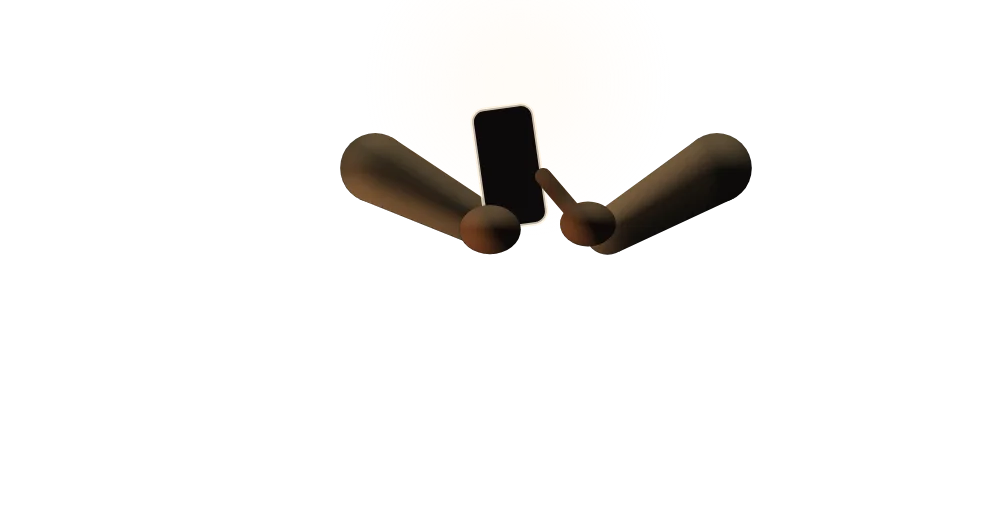
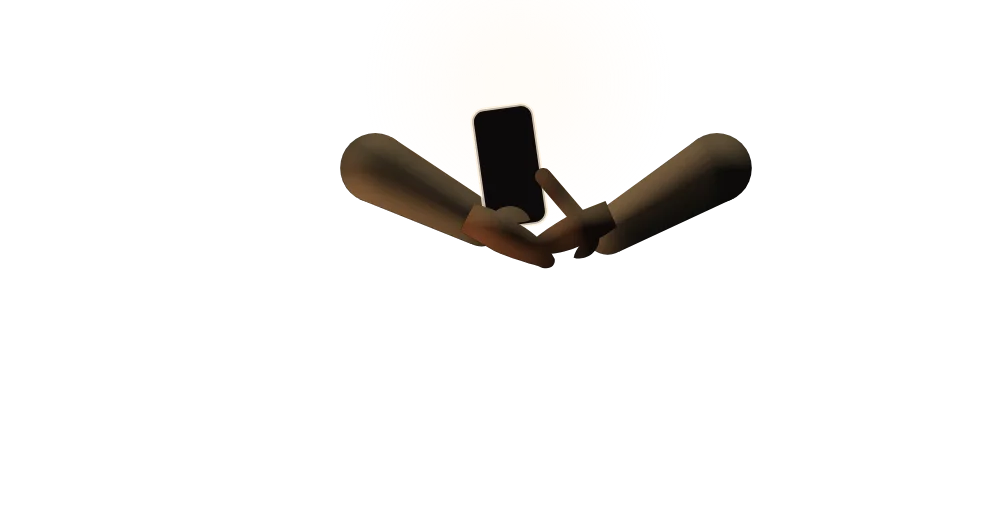
investigación: película del informe, afinado tras la revisión de la maestra
Manos con palma y pulgar en los planos abiertos; el mesero y los comensales se inclinan al hablar; el índice toca y se aparta
a un lado del teléfono; la plática de «Abierta» lleva dos líneas de subtítulo; el pago con la terminal se anuncia antes de
«Validar pago»; etiquetas de estado más grandes; el recuadro deja ver el pulgar y la palma del mesero.
verificar.mjs: 535 comprobaciones, 0 fallas.

Claude-Session: https://claude.ai/code/session_01T4zNEkueas1kpbmsMUXkGN

Changed region(s): [[0.4613, 0.391, 0.6151, 0.5113], [0.5536, 0.3609, 0.6151, 0.391]]

diff --git a/docs/informes/2026-11-14-planos-de-carta-v4/interactivo.html b/docs/informes/2026-11-14-planos-de-carta-v4/interactivo.html
@@ -8874,7 +8874,7 @@ const cineCss = `
 #cine .pip{position:absolute;left:1424px;top:118px;width:436px;height:800px;z-index:3;border-radius:44px;overflow:hidden;background:radial-gradient(ellipse 90% 70% at 50% 40%,#3a2420,#1a1210);box-shadow:0 0 0 2px rgba(253,195,77,.4),0 40px 80px rgba(8,4,3,.6);opacity:0;visibility:hidden}
 #cine .pipt{position:absolute;left:0;right:0;top:15px;text-align:center;font-size:18px;font-weight:700;letter-spacing:.12em;text-transform:uppercase;color:#fdd88a}
 /* sobre la escena */
-#cine .estado{position:absolute;z-index:4;padding:10px 20px;border-radius:999px;font-size:24px;font-weight:700;white-space:nowrap;opacity:0;visibility:hidden;box-shadow:0 10px 26px rgba(8,4,3,.4)}
+#cine .estado{position:absolute;z-index:4;padding:11px 24px;border-radius:999px;font-size:30px;font-weight:700;white-space:nowrap;opacity:0;visibility:hidden;box-shadow:0 10px 26px rgba(8,4,3,.4)}
 #cine .estado.lista{background:#66713d;color:#fff}
 #cine .estado.elige{background:rgba(254,249,241,.92);color:#5b4a3d}
 #cine .estado.vino{background:#fef9f1;color:#4f1728}
@@ -9179,8 +9179,8 @@ function cineHtml() {
   const rot = TOMAS.map((t, i) => t[4].length ? `<div class="r ${t[5]} r${i}">${t[4].map(l => `<span class="cln">${palabras(l)}</span>`).join("")}</div>` : "").join("");
   const etq = TOMAS.map((t, i) => t[3].length ? `<div class="etq e${i}">${t[3].map(([c, tx]) => `<span class="c${c}">${esc(tx)}</span>`).join("")}</div>` : "").join("");
   const globo = (k, quien, tx) => `<div class="globo g${k}"><b>${quien}</b>${tx}</div>`;
-  const sobre = `<span class="estado lista eA" style="left:384px;top:354px">✓ Lista</span><span class="estado elige eC" style="left:1384px;top:354px">Eligiendo…</span>` +
-    `<span class="estado vino eCom" style="left:112px;top:252px">✓ Comanda atendida</span><span class="estado vino ePago" style="left:112px;top:262px">✓ Pago validado</span><span class="estado lista eLibre" style="left:112px;top:262px">✓ Mesa 7, libre</span>` +
+  const sobre = `<span class="estado lista eA" style="left:372px;top:340px">✓ Lista</span><span class="estado elige eC" style="left:1340px;top:340px">Eligiendo…</span>` +
+    `<span class="estado vino eCom" style="left:112px;top:252px">✓ Comanda atendida</span><span class="estado vino ePago" style="left:112px;top:262px">✓ Pago validado</span><span class="estado elige ePaga" style="left:112px;top:150px">Pagan con la terminal del restaurante</span><span class="estado lista eLibre" style="left:112px;top:262px">✓ Mesa 7, libre</span>` +
     `<div class="resu rA" style="left:267px;top:346px"><b>Mi cuenta · Ana</b><span>Pescado a la talla<i>$245</i></span><span>Flan<i>$85</i></span><strong>Total<i>$330</i></strong></div>` +
     `<div class="resu rC" style="left:1134px;top:346px"><b>Mi cuenta · Carlos</b><span>Arrachera<i>$230</i></span><span>Agua de jamaica<i>$45</i></span><strong>Total<i>$275</i></strong></div>`;
   return `<div id="cine" aria-hidden="true"><div class="cf"><i class="l1"></i><i class="l2"></i></div>
@@ -9190,6 +9190,7 @@ ${globo(1, "Mesero", "Buenas noches. Aquí está la carta.")}${globo(2, "Mesero"
 ${globo(3, "Ana", "Ya pedí. ¿Tú qué vas a pedir?")}${globo(4, "Carlos", "Estoy viendo, todavía no sé.")}
 ${globo(5, "Mesero", "¿Qué tal? Esto es lo que van a pedir…")}${globo(6, "Ana", "Sí, todo bien.")}
 ${globo(7, "Mesero", "Gracias por venir. ¡Los esperamos pronto!")}
+${globo(8, "Ana", "Prueba el pescado, está increíble.")}${globo(9, "Carlos", "Y la arrachera. Hay que volver.")}
 <div class="reloj"><span class="x4">×4</span><span class="esfera"><i class="hh"></i><i class="mm"></i></span></div>
 ${rot}${etq}
 <div class="marca"><b>Carta</b><i></i><span>Tu menú, Tu Carta.</span></div></div>`;
@@ -9203,7 +9204,7 @@ function filmEscala() {
 
 /* posiciones de cada teléfono (su esquina superior izquierda en el cuadro de 1920×1080; el cuadro útil va de y=100 a y=980) */
 const PA = {x: 1050, y: 128, rotation: -2.5, scale: 0.9}, PB = {x: 1030, y: 122, rotation: -1, scale: 0.92}, PC = {x: 1090, y: 132, rotation: 1.5, scale: 0.9};
-const PF = {x: 430, y: 262, rotation: -1.5, scale: 0.72}, P2F = {x: 1200, y: 262, rotation: 1.5, scale: 0.72}, PM = {x: 1050, y: 128, rotation: -1.5, scale: 0.9}, PP = {x: 58, y: 54, rotation: 0, scale: 0.8};
+const PF = {x: 430, y: 262, rotation: -1.5, scale: 0.72}, P2F = {x: 1200, y: 262, rotation: 1.5, scale: 0.72}, PM = {x: 1050, y: 128, rotation: -1.5, scale: 0.9}, PP = {x: 104, y: 62, rotation: 0, scale: 0.76};
 /* donde espera el índice que toca (fuera del cuadro) y la cámara de la sala (escala y desplazamiento de las figuras; fs, fx, fy: el fondo) */
 const REP = {x: 600, y: 1090}, REPC = {x: -200, y: 1090};
 const C1 = {s: 1, x: 0, y: 0}, CA5 = {s: 0.86, x: 0, y: 151}, CSUC = {s: 1.25, x: -500, y: -340, fs: 1.14, fy: -30}, CBAR = {s: 1.5, x: -362, y: -170, fs: 1.3, fx: -250, fy: -40};
@@ -9226,8 +9227,8 @@ function filmLinea() {
   const gesto = (quien, t, n = 3, ang = 10) => tl.to(q(`.k-${quien}-brazo`), {rotation: quien === "ana" ? -ang : ang, duration: 0.32, yoyo: true, repeat: 2 * n - 1, ease: "sine.inOut"}, t);
   const toque = (A, x, y, t) => { tl.set(q(A + " .toque"), {left: x, top: y}, t - 0.01); tl.fromTo(q(A + " .toque"), {autoAlpha: 0.95, scale: 0.4}, {autoAlpha: 0, scale: 1.6, duration: 0.7, ease: "power2.out", immediateRender: false}, t); };
   const mueve = (A, x, y, t, d = 0.45) => tl.to(q(A + " .dedo"), {x, y, duration: d, ease: "power2.inOut"}, t);
-  /* tocar: el índice llega, baja, deja su marca en la pantalla y se levanta; s = -1 si la mano entra por la izquierda */
-  const toca = (A, x, y, t, s = 1) => { mueve(A, x + 16 * s, y + 46, t - 0.6, 0.45); tl.to(q(A + " .dedo"), {x, y, duration: 0.12, ease: "power1.in"}, t - 0.13); toque(A, x, y, t); tl.to(q(A + " .dedo"), {x: x + 14 * s, y: y + 40, duration: 0.22, ease: "power1.out"}, t + 0.1); };
+  /* tocar: el índice llega, baja, deja su marca y se aparta a un lado del teléfono para dejar ver la pantalla; s = -1 si la mano entra por la izquierda */
+  const toca = (A, x, y, t, s = 1) => { mueve(A, x + 16 * s, y + 46, t - 0.6, 0.45); tl.to(q(A + " .dedo"), {x, y, duration: 0.12, ease: "power1.in"}, t - 0.13); toque(A, x, y, t); tl.to(q(A + " .dedo"), {x: x + 14 * s, y: y + 40, duration: 0.2, ease: "power1.out"}, t + 0.1); tl.to(q(A + " .dedo"), {x: s > 0 ? 510 : -110, y: y + 80, duration: 0.5, ease: "power2.inOut"}, t + 0.3); };
   const retira = (A, t, R = REP, d = 0.6) => mueve(A, R.x, R.y, t, d);
   const globo = (k, t, fin) => { entra(".g" + k, t, 0.4, {y: 10}, {y: 0}); sale(".g" + k, fin, 0.25); };
   const pantalla = (sel, t, d = 0.4) => entra(sel, t, d, {scale: 0.97}, {scale: 1});
@@ -9238,7 +9239,9 @@ function filmLinea() {
   tl.set(q(".pfig"), {scale: 1.1, x: -96, y: -100}, 0);
   tl.set(q(".pfon"), {scale: 1.04, x: 0, y: 0, transformOrigin: "50% 50%"}, 0);
   tl.set(q(".cfon"), {scale: 1.06, x: 0, y: 0, transformOrigin: "50% 50%"}, 0);
-  tl.set(q(".gA, .gC, .gm"), {x: 0, y: 0}, 0);
+  tl.set(q(".gA, .gC, .gm"), {x: 0, y: 0, rotation: 0}, 0);
+  tl.set(q(".gA"), {transformOrigin: "432px 852px"}, 0); tl.set(q(".gC"), {transformOrigin: "1488px 852px"}, 0); tl.set(q(".gm"), {transformOrigin: "1128px 800px"}, 0);
+  const inclina = (g, ang, tt, d = 0.7) => tl.to(q(g), {rotation: ang, duration: d, ease: "sine.inOut"}, tt);
   Object.entries(GIRO).forEach(([n, [x, y]]) => tl.set(q(".k-" + n), {transformOrigin: orig(n, x, y), rotation: 0}, 0));
   tl.set(q(".k-qr-brillo, .k-resplandor, .k-llama"), {transformOrigin: "50% 50%"}, 0);
   tl.set(q(".k-llama"), {transformOrigin: "50% 90%"}, 0);
@@ -9277,10 +9280,10 @@ function filmLinea() {
   tl.fromTo(q(".gC"), {autoAlpha: 0, x: 90}, {autoAlpha: 1, x: 0, duration: 1.1, ease: "power3.out", immediateRender: false}, t + 0.9);
   tl.fromTo(q(".gm"), {autoAlpha: 0, x: 200}, {autoAlpha: 1, x: 0, duration: 1.2, ease: "power2.out", immediateRender: false}, t + 1.7);
   cam(t, C1, 7.5, "sine.inOut");
-  globo(1, t + 3.0, t + 4.9);
+  globo(1, t + 3.0, t + 4.9); inclina(".gm", -3, t + 2.8, 0.9);
   cabeza("ana", -5, t + 3.0); cabeza("carlos", 5, t + 3.2);
   globo(2, t + 5.1, t + 7.1);
-  pulsoQR(t + 5.4, 1);
+  pulsoQR(t + 5.4, 1); inclina(".gm", -1, t + 5.0, 0.8);
   cabeza("ana", 5, t + 5.6); cabeza("carlos", -5, t + 5.8);
   /* 3 · Ana levanta su teléfono; la cámara se va a su mano: escanea y entra a la carta (capturas reales) */
   t = T("escanea");
@@ -9294,9 +9297,9 @@ function filmLinea() {
   entra(".det", t + 3.0, 0.4, {y: 14}, {y: 0, ease: "back.out(2)"});
   toca(".agA", 200, 580, t + 3.8);
   entra(".cs.bien", t + 4.05, 0.35, {scale: 1.04}, {scale: 1});
-  toca(".agA", 200, 366, t + 5.5);
-  entra(".cs.menu", t + 5.8, 0.4, {scale: 1.04}, {scale: 1});
-  retira(".agA", t + 6.3);
+  toca(".agA", 200, 366, t + 5.6);
+  entra(".cs.menu", t + 5.9, 0.4, {scale: 1.04}, {scale: 1});
+  retira(".agA", t + 6.6);
   /* ===== acto 2: el teléfono en la mano de Ana, con la mesa desenfocada detrás ===== */
   /* 4 · la carta se adapta a lo que Ana no come */
   t = T("filtra");
@@ -9341,12 +9344,12 @@ function filmLinea() {
   tl.to(q(".vuela"), {autoAlpha: 0, duration: 0.15}, t + 1.95);
   tl.fromTo(q(".pPlato .mia .bd"), {autoAlpha: 0, scale: 0.3}, {autoAlpha: 1, scale: 1, duration: 0.4, ease: "back.out(3)", immediateRender: false}, t + 2.0);
   entra(".cs.pPlato .caviso", t + 2.2, 0.4, {y: 20}, {y: 0, ease: "back.out(1.6)"});
-  retira(".agA", t + 1.6);
+  retira(".agA", t + 2.0);
   /* ===== acto 3: la mesa pide junta ===== */
   /* 8 · de vuelta al plano abierto: Ana ya pidió y deja el teléfono; Carlos sigue eligiendo, con la cara alumbrada por la pantalla */
   t = T("juntos");
   tl.set(q(".pfig"), {scale: 1.5, x: -330, y: -430}, t); tl.set(q(".pfon"), {scale: 1.2, x: 60, y: 0}, t);
-  tl.set(q(".gm"), {autoAlpha: 0}, t);
+  tl.set(q(".gm"), {autoAlpha: 0, rotation: 0}, t);
   brazo("ana", "brazo", t, 0.01); brazo("carlos", "brazo-cel", t, 0.01);
   tl.set(q(".k-ana-cabeza"), {rotation: 0}, t); tl.set(q(".k-carlos-cabeza"), {rotation: -7}, t);
   corte(".cerca", ".sala", t, 0.7);
@@ -9354,7 +9357,7 @@ function filmLinea() {
   sale(".agA", t + 0.7, 0.01);
   entra(".eA", t + 2.0, 0.4, {scale: 0.6}, {scale: 1, ease: "back.out(2)"});
   entra(".eC", t + 2.2, 0.4, {scale: 0.6}, {scale: 1, ease: "back.out(2)"});
-  globo(3, t + 2.6, t + 4.5); gesto("ana", t + 2.6, 2, 8); cabeza("ana", 4, t + 2.6);
+  globo(3, t + 2.6, t + 4.5); gesto("ana", t + 2.6, 2, 8); cabeza("ana", 4, t + 2.6); inclina(".gA", 2.5, t + 2.5); inclina(".gA", 0, t + 4.4);
   globo(4, t + 4.7, t + 6.5); cabeza("carlos", 2, t + 4.7); cabeza("carlos", -7, t + 5.6);
   sale(".eA, .eC", t + 6.5, 0.3);
   /* 9 · Ana aún es nueva en Carta; elige una arrachera y se la manda a Carlos (visión); cada teléfono, en la mano de su dueño */
@@ -9371,7 +9374,7 @@ function filmLinea() {
   toca(".agA", 200, 726, t + 3.3);
   entra(".cs.pRes .toast", t + 3.45, 0.35, {y: -14}, {y: 0});
   entra(".reco2", t + 3.95, 0.45, {y: 30, scale: 0.92}, {y: 0, scale: 1, ease: "back.out(1.6)"});
-  retira(".agA", t + 3.9);
+  retira(".agA", t + 4.3);
   toca(".agC", 200, 498, t + 5.4, -1);
   sale(".reco2", t + 5.6, 0.3);
   entra(".cs.pCarlos .toast", t + 5.6, 0.35, {y: -14}, {y: 0});
@@ -9381,7 +9384,7 @@ function filmLinea() {
   toca(".agC", 200, 800, t + 0.9, -1);
   pantalla(".cs.pListosB", t + 1.05, 0.4);
   pantalla(".cs.pListosA", t + 1.35, 0.4);
-  retira(".agC", t + 1.4, REPC);
+  retira(".agC", t + 1.9, REPC);
   /* ===== acto 4: el mesero ===== */
   /* 11 · el mesero, en otra parte del salón: le vibra el bolsillo (aviso con el teléfono bloqueado: visión), mira y dice «Ya voy» */
   t = T("avisa");
@@ -9403,7 +9406,7 @@ function filmLinea() {
   tl.fromTo(q(".agM"), {y: PM.y + 200}, {y: PM.y, duration: 1.0, ease: "power3.out", immediateRender: false}, t + 2.7);
   toca(".agM", 200, 425, t + 4.7);
   pantalla(".cs.pOrden", t + 4.9, 0.4);
-  retira(".agM", t + 5.3);
+  retira(".agM", t + 5.6, REP, 0.5);
   /* de vuelta a la mesa: el mesero llega con su teléfono en la mano */
   tl.set(q(".pfig"), {scale: 1.04, x: -38, y: -30}, t + 6.2); tl.set(q(".pfon"), {scale: 1.04, x: 0, y: 0}, t + 6.2);
   tl.set(q(".k-ana-silla, .k-carlos-silla, .gA, .gC, .k-mesa, .k-montaje, .k-copa-a, .k-copa-c, .k-acrilico, .k-vela, .k-llama, .k-resplandor"), {autoAlpha: 1}, t + 6.2);
@@ -9415,7 +9418,7 @@ function filmLinea() {
   cam(t + 6.3, C1, 3.5, "sine.out");
   /* 12 · repasa la orden con ellos y la manda */
   t = T("llega");
-  globo(5, t + 0.4, t + 2.8); cabeza("mesero", -5, t + 0.4);
+  globo(5, t + 0.4, t + 2.8); cabeza("mesero", -5, t + 0.4); inclina(".gm", -2.5, t + 0.3, 0.9); inclina(".gm", 0, t + 5.4, 0.8);
   globo(6, t + 3.0, t + 4.5); cabeza("ana", -6, t + 3.0, 0.3); cabeza("ana", 2, t + 3.5, 0.3); cabeza("ana", -4, t + 3.9, 0.3);
   entra(".eCom", t + 4.7, 0.4, {scale: 0.6}, {scale: 1, ease: "back.out(2)"});
   /* ===== acto 5: el ciclo de la mesa, a cámara rápida; arriba a la derecha, el teléfono del mesero ===== */
@@ -9442,6 +9445,8 @@ function filmLinea() {
   /* 13 · abierta: llegan los platillos; comen y platican por turnos */
   entra(".k-platillo-a, .k-platillo-c", t + 1.5, 0.6, {y: -18}, {y: 0, stagger: 0.25});
   cabeza("ana", 5, t + 1.6); cabeza("carlos", -5, t + 1.8);
+  globo(8, t + 2.3, t + 4.1); inclina(".gA", 3, t + 2.3); inclina(".gA", 0, t + 4.0);
+  globo(9, t + 4.3, t + 6.2); inclina(".gC", -3, t + 4.3); inclina(".gC", 0, t + 6.0, 0.5);
   gesto("ana", t + 2.4, 3, 12); cabeza("ana", -4, t + 2.4, 0.4); cabeza("ana", 2, t + 3.0, 0.4); cabeza("ana", -3, t + 3.6, 0.4);
   cabeza("carlos", 4, t + 2.6, 0.4); cabeza("carlos", -2, t + 3.3, 0.4);
   brazo("carlos", "brazo-copa", t + 3.9); pon(".k-copa-c", t + 3.95, false);
@@ -9467,6 +9472,8 @@ function filmLinea() {
   brazo("mesero", "brazos-terminal", t, 0.01); tl.set(q(".k-mesero-cabeza"), {scaleX: -1, rotation: 0}, t);
   tl.fromTo(q(".gm"), {x: 220, autoAlpha: 0}, {x: 0, autoAlpha: 1, duration: 1.0, ease: "power2.out", immediateRender: false}, t + 0.2);
   tl.to(q(".k-mesero-cabeza"), {scaleX: 1, duration: 0.3, ease: "power1.inOut"}, t + 1.0);
+  inclina(".gm", 3, t + 1.0, 0.8); inclina(".gm", 0, t + 2.8, 0.6);
+  entra(".ePaga", t + 1.3, 0.4, {scale: 0.6}, {scale: 1, ease: "back.out(2)"}); sale(".ePaga", t + 3.2, 0.3);
   tl.to(q(".k-carlos-brazo"), {rotation: 22, duration: 0.45, ease: "power2.out"}, t + 1.5);
   tl.fromTo(q(".buzz"), {autoAlpha: 0, scale: 0.5, x: 180, y: 0}, {autoAlpha: 1, scale: 1.1, duration: 0.3, yoyo: true, repeat: 1, ease: "sine.inOut", immediateRender: false}, t + 2.0);
   tl.to(q(".k-carlos-brazo"), {rotation: 0, duration: 0.45, ease: "power2.inOut"}, t + 2.6);

diff --git a/docs/informes/2026-11-14-planos-de-carta-v4/js/e2_film.js b/docs/informes/2026-11-14-planos-de-carta-v4/js/e2_film.js
@@ -163,7 +163,7 @@ const cineCss = `
 #cine .pip{position:absolute;left:1424px;top:118px;width:436px;height:800px;z-index:3;border-radius:44px;overflow:hidden;background:radial-gradient(ellipse 90% 70% at 50% 40%,#3a2420,#1a1210);box-shadow:0 0 0 2px rgba(253,195,77,.4),0 40px 80px rgba(8,4,3,.6);opacity:0;visibility:hidden}
 #cine .pipt{position:absolute;left:0;right:0;top:15px;text-align:center;font-size:18px;font-weight:700;letter-spacing:.12em;text-transform:uppercase;color:#fdd88a}
 /* sobre la escena */
-#cine .estado{position:absolute;z-index:4;padding:10px 20px;border-radius:999px;font-size:24px;font-weight:700;white-space:nowrap;opacity:0;visibility:hidden;box-shadow:0 10px 26px rgba(8,4,3,.4)}
+#cine .estado{position:absolute;z-index:4;padding:11px 24px;border-radius:999px;font-size:30px;font-weight:700;white-space:nowrap;opacity:0;visibility:hidden;box-shadow:0 10px 26px rgba(8,4,3,.4)}
 #cine .estado.lista{background:#66713d;color:#fff}
 #cine .estado.elige{background:rgba(254,249,241,.92);color:#5b4a3d}
 #cine .estado.vino{background:#fef9f1;color:#4f1728}
@@ -468,8 +468,8 @@ function cineHtml() {
   const rot = TOMAS.map((t, i) => t[4].length ? `<div class="r ${t[5]} r${i}">${t[4].map(l => `<span class="cln">${palabras(l)}</span>`).join("")}</div>` : "").join("");
   const etq = TOMAS.map((t, i) => t[3].length ? `<div class="etq e${i}">${t[3].map(([c, tx]) => `<span class="c${c}">${esc(tx)}</span>`).join("")}</div>` : "").join("");
   const globo = (k, quien, tx) => `<div class="globo g${k}"><b>${quien}</b>${tx}</div>`;
-  const sobre = `<span class="estado lista eA" style="left:384px;top:354px">✓ Lista</span><span class="estado elige eC" style="left:1384px;top:354px">Eligiendo…</span>` +
-    `<span class="estado vino eCom" style="left:112px;top:252px">✓ Comanda atendida</span><span class="estado vino ePago" style="left:112px;top:262px">✓ Pago validado</span><span class="estado lista eLibre" style="left:112px;top:262px">✓ Mesa 7, libre</span>` +
+  const sobre = `<span class="estado lista eA" style="left:372px;top:340px">✓ Lista</span><span class="estado elige eC" style="left:1340px;top:340px">Eligiendo…</span>` +
+    `<span class="estado vino eCom" style="left:112px;top:252px">✓ Comanda atendida</span><span class="estado vino ePago" style="left:112px;top:262px">✓ Pago validado</span><span class="estado elige ePaga" style="left:112px;top:150px">Pagan con la terminal del restaurante</span><span class="estado lista eLibre" style="left:112px;top:262px">✓ Mesa 7, libre</span>` +
     `<div class="resu rA" style="left:267px;top:346px"><b>Mi cuenta · Ana</b><span>Pescado a la talla<i>$245</i></span><span>Flan<i>$85</i></span><strong>Total<i>$330</i></strong></div>` +
     `<div class="resu rC" style="left:1134px;top:346px"><b>Mi cuenta · Carlos</b><span>Arrachera<i>$230</i></span><span>Agua de jamaica<i>$45</i></span><strong>Total<i>$275</i></strong></div>`;
   return `<div id="cine" aria-hidden="true"><div class="cf"><i class="l1"></i><i class="l2"></i></div>
@@ -479,6 +479,7 @@ ${globo(1, "Mesero", "Buenas noches. Aquí está la carta.")}${globo(2, "Mesero"
 ${globo(3, "Ana", "Ya pedí. ¿Tú qué vas a pedir?")}${globo(4, "Carlos", "Estoy viendo, todavía no sé.")}
 ${globo(5, "Mesero", "¿Qué tal? Esto es lo que van a pedir…")}${globo(6, "Ana", "Sí, todo bien.")}
 ${globo(7, "Mesero", "Gracias por venir. ¡Los esperamos pronto!")}
+${globo(8, "Ana", "Prueba el pescado, está increíble.")}${globo(9, "Carlos", "Y la arrachera. Hay que volver.")}
 <div class="reloj"><span class="x4">×4</span><span class="esfera"><i class="hh"></i><i class="mm"></i></span></div>
 ${rot}${etq}
 <div class="marca"><b>Carta</b><i></i><span>Tu menú, Tu Carta.</span></div></div>`;
@@ -492,7 +493,7 @@ function filmEscala() {
 
 /* posiciones de cada teléfono (su esquina superior izquierda en el cuadro de 1920×1080; el cuadro útil va de y=100 a y=980) */
 const PA = {x: 1050, y: 128, rotation: -2.5, scale: 0.9}, PB = {x: 1030, y: 122, rotation: -1, scale: 0.92}, PC = {x: 1090, y: 132, rotation: 1.5, scale: 0.9};
-const PF = {x: 430, y: 262, rotation: -1.5, scale: 0.72}, P2F = {x: 1200, y: 262, rotation: 1.5, scale: 0.72}, PM = {x: 1050, y: 128, rotation: -1.5, scale: 0.9}, PP = {x: 58, y: 54, rotation: 0, scale: 0.8};
+const PF = {x: 430, y: 262, rotation: -1.5, scale: 0.72}, P2F = {x: 1200, y: 262, rotation: 1.5, scale: 0.72}, PM = {x: 1050, y: 128, rotation: -1.5, scale: 0.9}, PP = {x: 104, y: 62, rotation: 0, scale: 0.76};
 /* donde espera el índice que toca (fuera del cuadro) y la cámara de la sala (escala y desplazamiento de las figuras; fs, fx, fy: el fondo) */
 const REP = {x: 600, y: 1090}, REPC = {x: -200, y: 1090};
 const C1 = {s: 1, x: 0, y: 0}, CA5 = {s: 0.86, x: 0, y: 151}, CSUC = {s: 1.25, x: -500, y: -340, fs: 1.14, fy: -30}, CBAR = {s: 1.5, x: -362, y: -170, fs: 1.3, fx: -250, fy: -40};
@@ -515,8 +516,8 @@ function filmLinea() {
   const gesto = (quien, t, n = 3, ang = 10) => tl.to(q(`.k-${quien}-brazo`), {rotation: quien === "ana" ? -ang : ang, duration: 0.32, yoyo: true, repeat: 2 * n - 1, ease: "sine.inOut"}, t);
   const toque = (A, x, y, t) => { tl.set(q(A + " .toque"), {left: x, top: y}, t - 0.01); tl.fromTo(q(A + " .toque"), {autoAlpha: 0.95, scale: 0.4}, {autoAlpha: 0, scale: 1.6, duration: 0.7, ease: "power2.out", immediateRender: false}, t); };
   const mueve = (A, x, y, t, d = 0.45) => tl.to(q(A + " .dedo"), {x, y, duration: d, ease: "power2.inOut"}, t);
-  /* tocar: el índice llega, baja, deja su marca en la pantalla y se levanta; s = -1 si la mano entra por la izquierda */
-  const toca = (A, x, y, t, s = 1) => { mueve(A, x + 16 * s, y + 46, t - 0.6, 0.45); tl.to(q(A + " .dedo"), {x, y, duration: 0.12, ease: "power1.in"}, t - 0.13); toque(A, x, y, t); tl.to(q(A + " .dedo"), {x: x + 14 * s, y: y + 40, duration: 0.22, ease: "power1.out"}, t + 0.1); };
+  /* tocar: el índice llega, baja, deja su marca y se aparta a un lado del teléfono para dejar ver la pantalla; s = -1 si la mano entra por la izquierda */
+  const toca = (A, x, y, t, s = 1) => { mueve(A, x + 16 * s, y + 46, t - 0.6, 0.45); tl.to(q(A + " .dedo"), {x, y, duration: 0.12, ease: "power1.in"}, t - 0.13); toque(A, x, y, t); tl.to(q(A + " .dedo"), {x: x + 14 * s, y: y + 40, duration: 0.2, ease: "power1.out"}, t + 0.1); tl.to(q(A + " .dedo"), {x: s > 0 ? 510 : -110, y: y + 80, duration: 0.5, ease: "power2.inOut"}, t + 0.3); };
   const retira = (A, t, R = REP, d = 0.6) => mueve(A, R.x, R.y, t, d);
   const globo = (k, t, fin) => { entra(".g" + k, t, 0.4, {y: 10}, {y: 0}); sale(".g" + k, fin, 0.25); };
   const pantalla = (sel, t, d = 0.4) => entra(sel, t, d, {scale: 0.97}, {scale: 1});
@@ -527,7 +528,9 @@ function filmLinea() {
   tl.set(q(".pfig"), {scale: 1.1, x: -96, y: -100}, 0);
   tl.set(q(".pfon"), {scale: 1.04, x: 0, y: 0, transformOrigin: "50% 50%"}, 0);
   tl.set(q(".cfon"), {scale: 1.06, x: 0, y: 0, transformOrigin: "50% 50%"}, 0);
-  tl.set(q(".gA, .gC, .gm"), {x: 0, y: 0}, 0);
+  tl.set(q(".gA, .gC, .gm"), {x: 0, y: 0, rotation: 0}, 0);
+  tl.set(q(".gA"), {transformOrigin: "432px 852px"}, 0); tl.set(q(".gC"), {transformOrigin: "1488px 852px"}, 0); tl.set(q(".gm"), {transformOrigin: "1128px 800px"}, 0);
+  const inclina = (g, ang, tt, d = 0.7) => tl.to(q(g), {rotation: ang, duration: d, ease: "sine.inOut"}, tt);
   Object.entries(GIRO).forEach(([n, [x, y]]) => tl.set(q(".k-" + n), {transformOrigin: orig(n, x, y), rotation: 0}, 0));
   tl.set(q(".k-qr-brillo, .k-resplandor, .k-llama"), {transformOrigin: "50% 50%"}, 0);
   tl.set(q(".k-llama"), {transformOrigin: "50% 90%"}, 0);
@@ -566,10 +569,10 @@ function filmLinea() {
   tl.fromTo(q(".gC"), {autoAlpha: 0, x: 90}, {autoAlpha: 1, x: 0, duration: 1.1, ease: "power3.out", immediateRender: false}, t + 0.9);
   tl.fromTo(q(".gm"), {autoAlpha: 0, x: 200}, {autoAlpha: 1, x: 0, duration: 1.2, ease: "power2.out", immediateRender: false}, t + 1.7);
   cam(t, C1, 7.5, "sine.inOut");
-  globo(1, t + 3.0, t + 4.9);
+  globo(1, t + 3.0, t + 4.9); inclina(".gm", -3, t + 2.8, 0.9);
   cabeza("ana", -5, t + 3.0); cabeza("carlos", 5, t + 3.2);
   globo(2, t + 5.1, t + 7.1);
-  pulsoQR(t + 5.4, 1);
+  pulsoQR(t + 5.4, 1); inclina(".gm", -1, t + 5.0, 0.8);
   cabeza("ana", 5, t + 5.6); cabeza("carlos", -5, t + 5.8);
   /* 3 · Ana levanta su teléfono; la cámara se va a su mano: escanea y entra a la carta (capturas reales) */
   t = T("escanea");
@@ -583,9 +586,9 @@ function filmLinea() {
   entra(".det", t + 3.0, 0.4, {y: 14}, {y: 0, ease: "back.out(2)"});
   toca(".agA", 200, 580, t + 3.8);
   entra(".cs.bien", t + 4.05, 0.35, {scale: 1.04}, {scale: 1});
-  toca(".agA", 200, 366, t + 5.5);
-  entra(".cs.menu", t + 5.8, 0.4, {scale: 1.04}, {scale: 1});
-  retira(".agA", t + 6.3);
+  toca(".agA", 200, 366, t + 5.6);
+  entra(".cs.menu", t + 5.9, 0.4, {scale: 1.04}, {scale: 1});
+  retira(".agA", t + 6.6);
   /* ===== acto 2: el teléfono en la mano de Ana, con la mesa desenfocada detrás ===== */
   /* 4 · la carta se adapta a lo que Ana no come */
   t = T("filtra");
@@ -630,12 +633,12 @@ function filmLinea() {
   tl.to(q(".vuela"), {autoAlpha: 0, duration: 0.15}, t + 1.95);
   tl.fromTo(q(".pPlato .mia .bd"), {autoAlpha: 0, scale: 0.3}, {autoAlpha: 1, scale: 1, duration: 0.4, ease: "back.out(3)", immediateRender: false}, t + 2.0);
   entra(".cs.pPlato .caviso", t + 2.2, 0.4, {y: 20}, {y: 0, ease: "back.out(1.6)"});
-  retira(".agA", t + 1.6);
+  retira(".agA", t + 2.0);
   /* ===== acto 3: la mesa pide junta ===== */
   /* 8 · de vuelta al plano abierto: Ana ya pidió y deja el teléfono; Carlos sigue eligiendo, con la cara alumbrada por la pantalla */
   t = T("juntos");
   tl.set(q(".pfig"), {scale: 1.5, x: -330, y: -430}, t); tl.set(q(".pfon"), {scale: 1.2, x: 60, y: 0}, t);
-  tl.set(q(".gm"), {autoAlpha: 0}, t);
+  tl.set(q(".gm"), {autoAlpha: 0, rotation: 0}, t);
   brazo("ana", "brazo", t, 0.01); brazo("carlos", "brazo-cel", t, 0.01);
   tl.set(q(".k-ana-cabeza"), {rotation: 0}, t); tl.set(q(".k-carlos-cabeza"), {rotation: -7}, t);
   corte(".cerca", ".sala", t, 0.7);
@@ -643,7 +646,7 @@ function filmLinea() {
   sale(".agA", t + 0.7, 0.01);
   entra(".eA", t + 2.0, 0.4, {scale: 0.6}, {scale: 1, ease: "back.out(2)"});
   entra(".eC", t + 2.2, 0.4, {scale: 0.6}, {scale: 1, ease: "back.out(2)"});
-  globo(3, t + 2.6, t + 4.5); gesto("ana", t + 2.6, 2, 8); cabeza("ana", 4, t + 2.6);
+  globo(3, t + 2.6, t + 4.5); gesto("ana", t + 2.6, 2, 8); cabeza("ana", 4, t + 2.6); inclina(".gA", 2.5, t + 2.5); inclina(".gA", 0, t + 4.4);
   globo(4, t + 4.7, t + 6.5); cabeza("carlos", 2, t + 4.7); cabeza("carlos", -7, t + 5.6);
   sale(".eA, .eC", t + 6.5, 0.3);
   /* 9 · Ana aún es nueva en Carta; elige una arrachera y se la manda a Carlos (visión); cada teléfono, en la mano de su dueño */
@@ -660,7 +663,7 @@ function filmLinea() {
   toca(".agA", 200, 726, t + 3.3);
   entra(".cs.pRes .toast", t + 3.45, 0.35, {y: -14}, {y: 0});
   entra(".reco2", t + 3.95, 0.45, {y: 30, scale: 0.92}, {y: 0, scale: 1, ease: "back.out(1.6)"});
-  retira(".agA", t + 3.9);
+  retira(".agA", t + 4.3);
   toca(".agC", 200, 498, t + 5.4, -1);
   sale(".reco2", t + 5.6, 0.3);
   entra(".cs.pCarlos .toast", t + 5.6, 0.35, {y: -14}, {y: 0});
@@ -670,7 +673,7 @@ function filmLinea() {
   toca(".agC", 200, 800, t + 0.9, -1);
   pantalla(".cs.pListosB", t + 1.05, 0.4);
   pantalla(".cs.pListosA", t + 1.35, 0.4);
-  retira(".agC", t + 1.4, REPC);
+  retira(".agC", t + 1.9, REPC);
   /* ===== acto 4: el mesero ===== */
   /* 11 · el mesero, en otra parte del salón: le vibra el bolsillo (aviso con el teléfono bloqueado: visión), mira y dice «Ya voy» */
   t = T("avisa");
@@ -692,7 +695,7 @@ function filmLinea() {
   tl.fromTo(q(".agM"), {y: PM.y + 200}, {y: PM.y, duration: 1.0, ease: "power3.out", immediateRender: false}, t + 2.7);
   toca(".agM", 200, 425, t + 4.7);
   pantalla(".cs.pOrden", t + 4.9, 0.4);
-  retira(".agM", t + 5.3);
+  retira(".agM", t + 5.6, REP, 0.5);
   /* de vuelta a la mesa: el mesero llega con su teléfono en la mano */
   tl.set(q(".pfig"), {scale: 1.04, x: -38, y: -30}, t + 6.2); tl.set(q(".pfon"), {scale: 1.04, x: 0, y: 0}, t + 6.2);
   tl.set(q(".k-ana-silla, .k-carlos-silla, .gA, .gC, .k-mesa, .k-montaje, .k-copa-a, .k-copa-c, .k-acrilico, .k-vela, .k-llama, .k-resplandor"), {autoAlpha: 1}, t + 6.2);
@@ -704,7 +707,7 @@ function filmLinea() {
   cam(t + 6.3, C1, 3.5, "sine.out");
   /* 12 · repasa la orden con ellos y la manda */
   t = T("llega");
-  globo(5, t + 0.4, t + 2.8); cabeza("mesero", -5, t + 0.4);
+  globo(5, t + 0.4, t + 2.8); cabeza("mesero", -5, t + 0.4); inclina(".gm", -2.5, t + 0.3, 0.9); inclina(".gm", 0, t + 5.4, 0.8);
   globo(6, t + 3.0, t + 4.5); cabeza("ana", -6, t + 3.0, 0.3); cabeza("ana", 2, t + 3.5, 0.3); cabeza("ana", -4, t + 3.9, 0.3);
   entra(".eCom", t + 4.7, 0.4, {scale: 0.6}, {scale: 1, ease: "back.out(2)"});
   /* ===== acto 5: el ciclo de la mesa, a cámara rápida; arriba a la derecha, el teléfono del mesero ===== */
@@ -731,6 +734,8 @@ function filmLinea() {
   /* 13 · abierta: llegan los platillos; comen y platican por turnos */
   entra(".k-platillo-a, .k-platillo-c", t + 1.5, 0.6, {y: -18}, {y: 0, stagger: 0.25});
   cabeza("ana", 5, t + 1.6); cabeza("carlos", -5, t + 1.8);
+  globo(8, t + 2.3, t + 4.1); inclina(".gA", 3, t + 2.3); inclina(".gA", 0, t + 4.0);
+  globo(9, t + 4.3, t + 6.2); inclina(".gC", -3, t + 4.3); inclina(".gC", 0, t + 6.0, 0.5);
   gesto("ana", t + 2.4, 3, 12); cabeza("ana", -4, t + 2.4, 0.4); cabeza("ana", 2, t + 3.0, 0.4); cabeza("ana", -3, t + 3.6, 0.4);
   cabeza("carlos", 4, t + 2.6, 0.4); cabeza("carlos", -2, t + 3.3, 0.4);
   brazo("carlos", "brazo-copa", t + 3.9); pon(".k-copa-c", t + 3.95, false);
@@ -756,6 +761,8 @@ function filmLinea() {
   brazo("mesero", "brazos-terminal", t, 0.01); tl.set(q(".k-mesero-cabeza"), {scaleX: -1, rotation: 0}, t);
   tl.fromTo(q(".gm"), {x: 220, autoAlpha: 0}, {x: 0, autoAlpha: 1, duration: 1.0, ease: "power2.out", immediateRender: false}, t + 0.2);
   tl.to(q(".k-mesero-cabeza"), {scaleX: 1, duration: 0.3, ease: "power1.inOut"}, t + 1.0);
+  inclina(".gm", 3, t + 1.0, 0.8); inclina(".gm", 0, t + 2.8, 0.6);
+  entra(".ePaga", t + 1.3, 0.4, {scale: 0.6}, {scale: 1, ease: "back.out(2)"}); sale(".ePaga", t + 3.2, 0.3);
   tl.to(q(".k-carlos-brazo"), {rotation: 22, duration: 0.45, ease: "power2.out"}, t + 1.5);
   tl.fromTo(q(".buzz"), {autoAlpha: 0, scale: 0.5, x: 180, y: 0}, {autoAlpha: 1, scale: 1.1, duration: 0.3, yoyo: true, repeat: 1, ease: "sine.inOut", immediateRender: false}, t + 2.0);
   tl.to(q(".k-carlos-brazo"), {rotation: 0, duration: 0.45, ease: "power2.inOut"}, t + 2.6);
